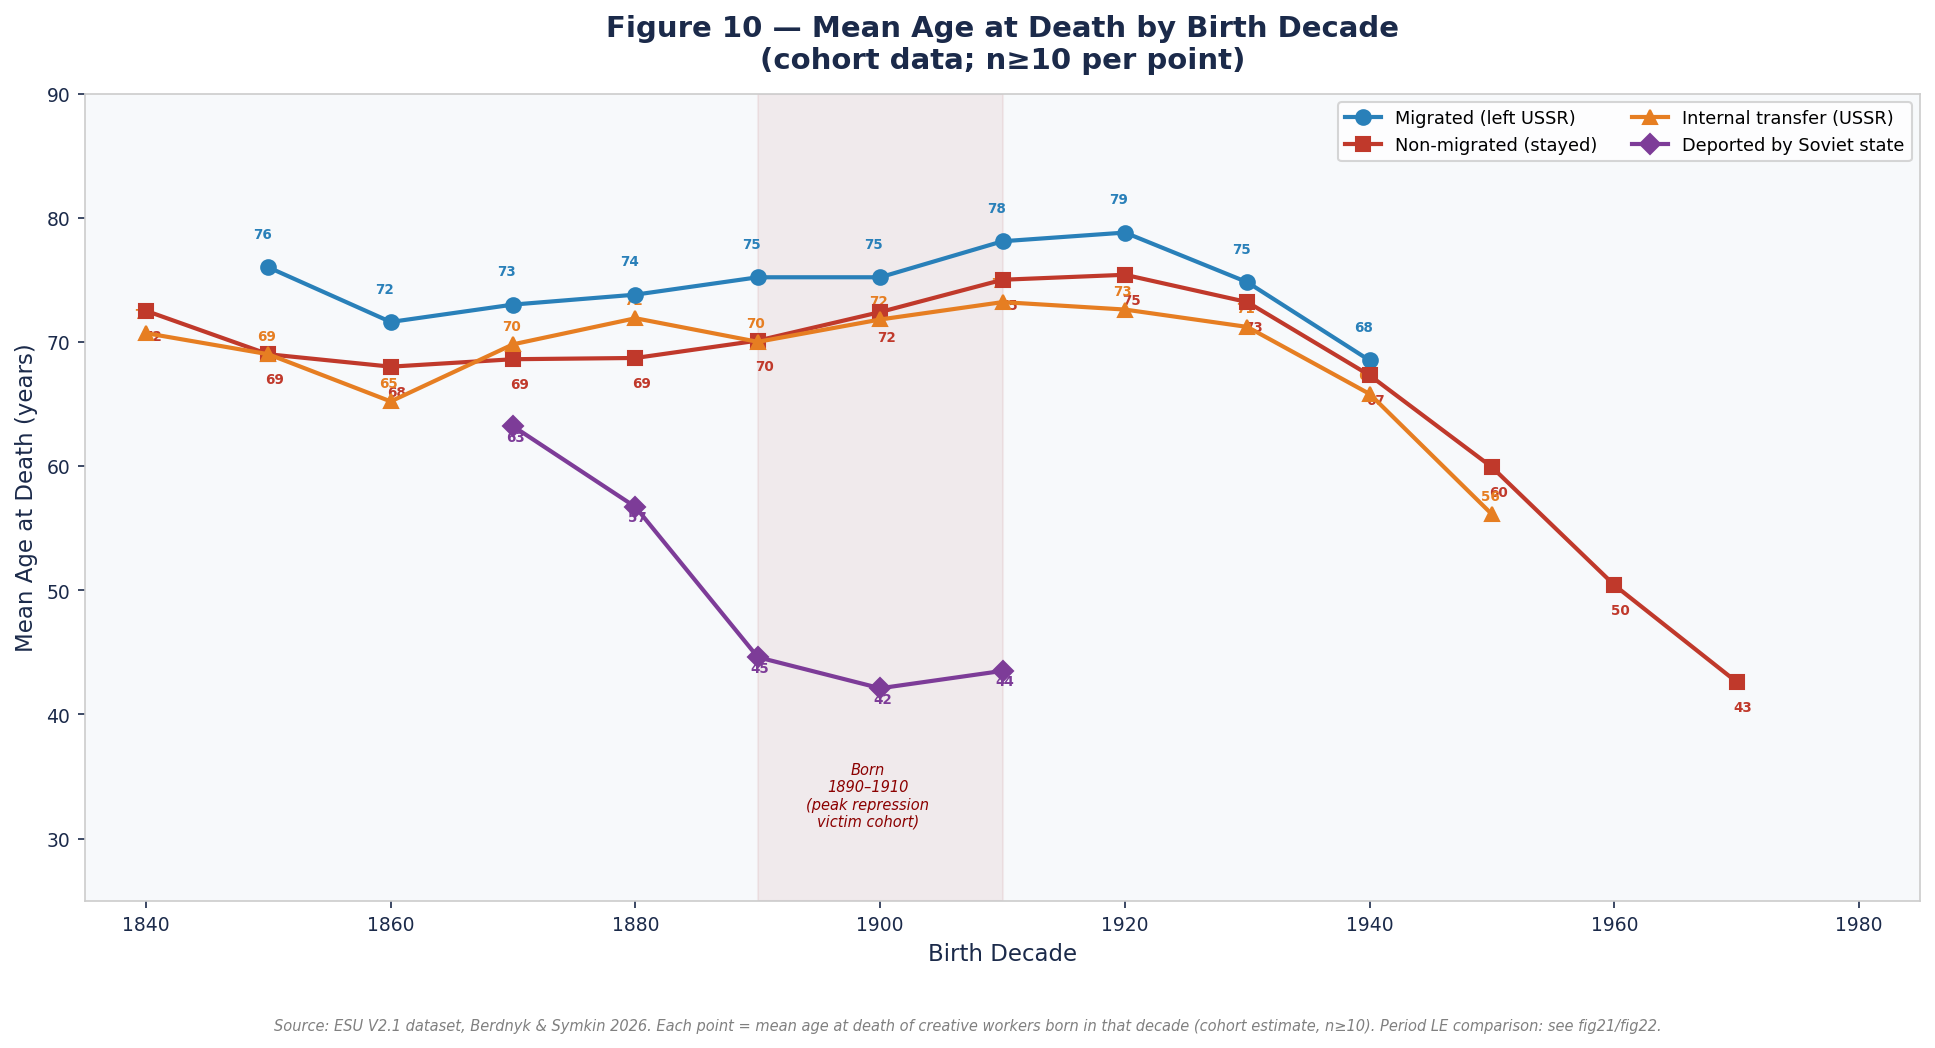
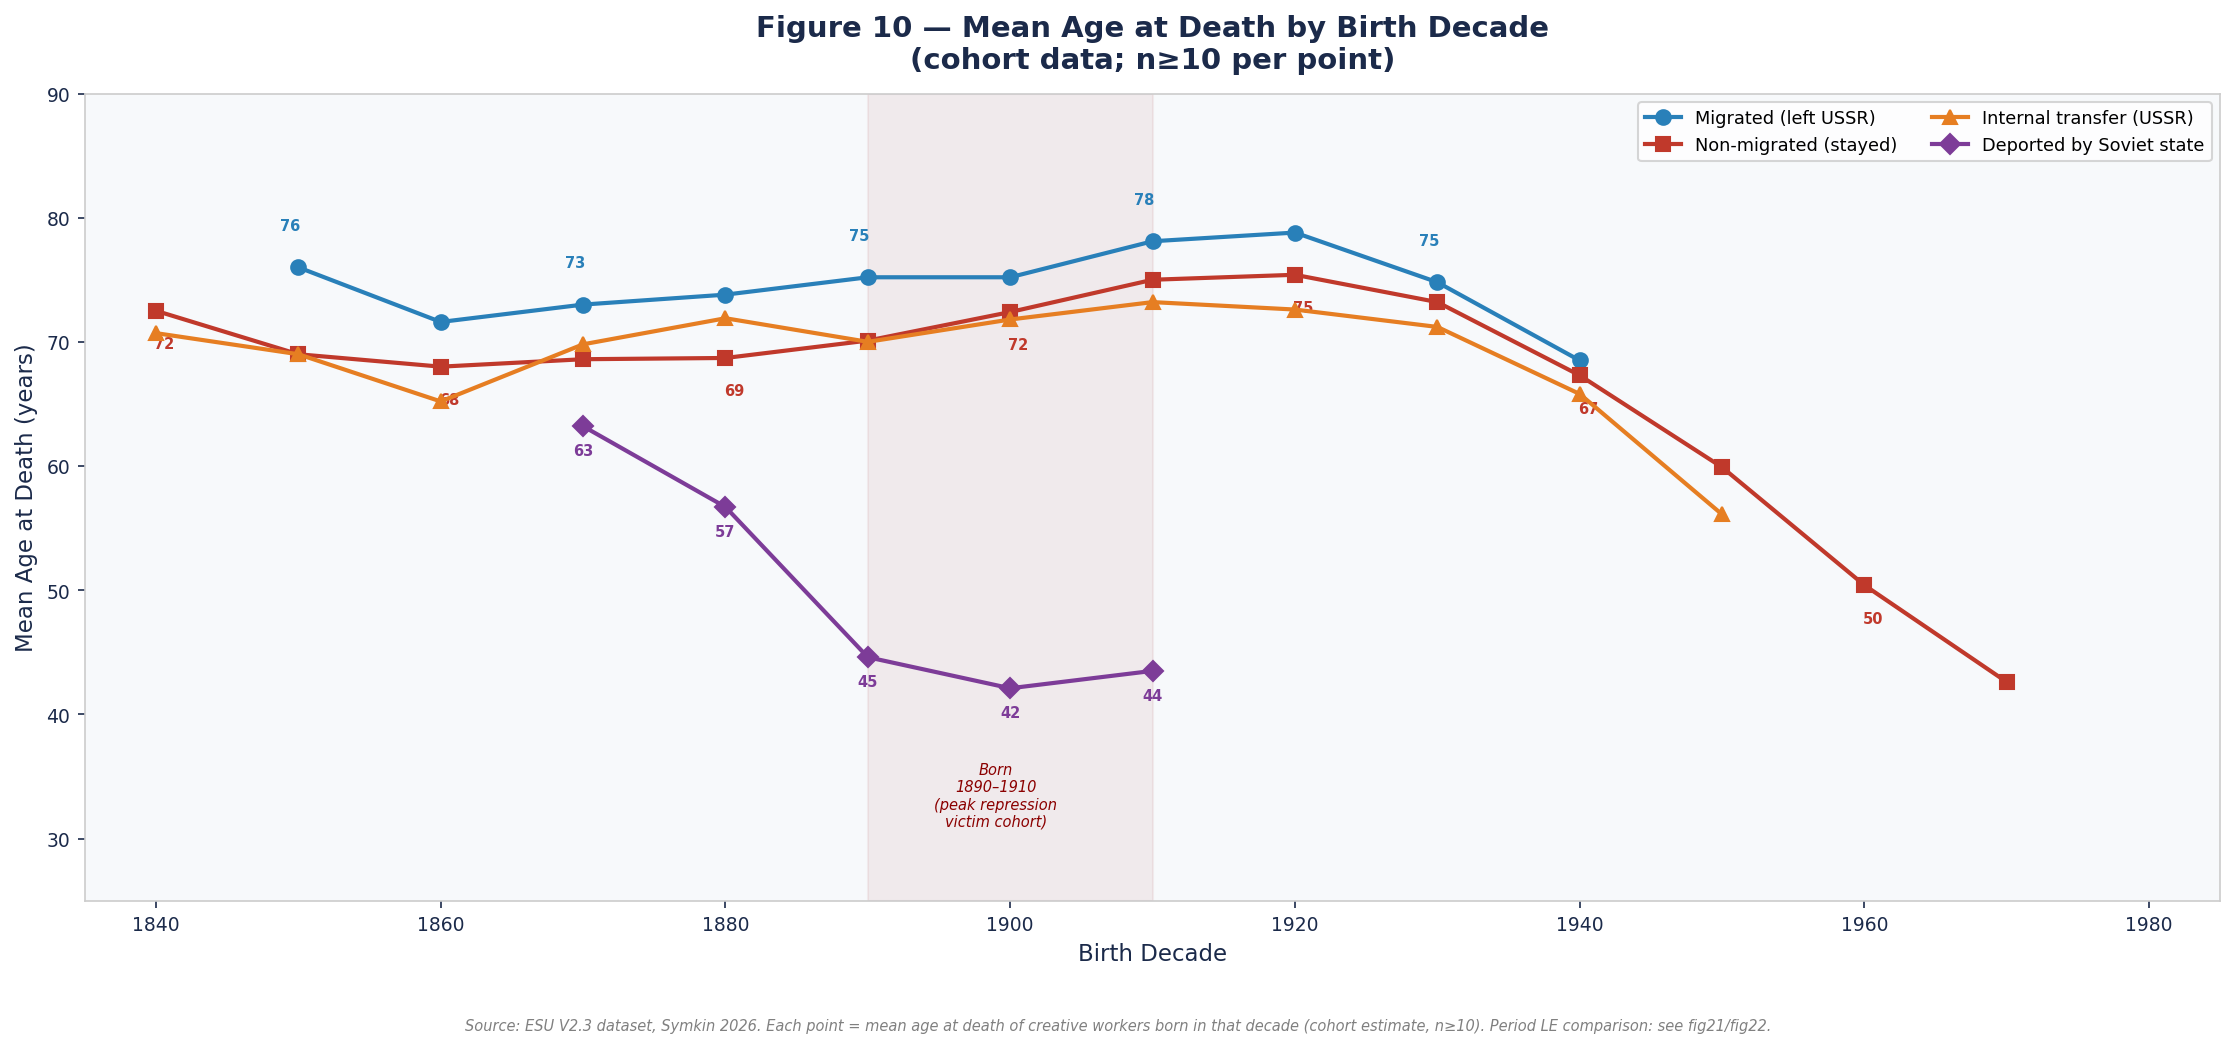
fig10: clean up label overlap — sparse labels + wider figure
- Migrated/non-migrated: label every other decade only (was every point)
- Internal transfer: no inline labels (line shape tells the story)
- Deported: all points still labelled
- Offsets increased to ±18pt and figure widened to 15" for breathing room
- Source footnote corrected: V2.1 → V2.3, Berdnyk & Symkin → Symkin

chart_docs/fig10: V2.3 cohort table with correct numbers + update history
SCIENTIFIC_METHODOLOGY.md §12.3: seven → 24 figures + viz design notes

diff --git a/ukraine_v2/generate_analysis.py b/ukraine_v2/generate_analysis.py
@@ -885,14 +885,18 @@ for dec in decades_ch:
         cohort_ns[ms].append(len(v))
     valid_decs.append(dec)
 
-fig, ax = plt.subplots(figsize=(13, 7))
+fig, ax = plt.subplots(figsize=(15, 7))
 MARKERS10 = {'migrated': 'o', 'non_migrated': 's', 'internal_transfer': '^', 'deported': 'D'}
 
-# Fixed per-group label direction + x-nudge so labels at the same decade never collide
-_LBL_DY = {'migrated': +14, 'non_migrated': -14,
-            'internal_transfer': +7, 'deported': -7}   # points
-_LBL_DX = {'migrated': -3,  'non_migrated': +3,
-            'internal_transfer': -1, 'deported': +1}   # points
+# Label strategy:
+#   - Deported: label every point (it's the key story, sits far below the others)
+#   - Migrated / Non-migrated: label every other decade only (reduces clutter on the
+#     tightly-packed upper cluster without losing the data story)
+#   - Internal transfer: no inline labels (it tracks non-migrated closely; the line
+#     shape tells the story; labelling would only add noise)
+_LABEL_EVERY = {'migrated': 2, 'non_migrated': 2, 'internal_transfer': None, 'deported': 1}
+_LBL_DY      = {'migrated': +18, 'non_migrated': -18, 'deported': -14}   # offset points
+_LBL_DX      = {'migrated':  -4, 'non_migrated':  +4,  'deported':   0}
 
 for ms in ALL_GROUPS:
     vals = cohort_means[ms]
@@ -903,10 +907,15 @@ for ms in ALL_GROUPS:
         continue
     ax.plot(xs, ys, marker=MARKERS10[ms], linestyle='-', color=COLOUR[ms],
             label=GROUP_LABELS[ms], linewidth=2, markersize=7, zorder=5)
-    for x_pt, y_pt, n_pt in zip(xs, ys, ns):
+    step = _LABEL_EVERY[ms]
+    if step is None:
+        continue
+    for j, (x_pt, y_pt, n_pt) in enumerate(zip(xs, ys, ns)):
+        if j % step != 0:
+            continue
         ax.annotate(f"{y_pt:.0f}", xy=(x_pt, y_pt),
                     xytext=(_LBL_DX[ms], _LBL_DY[ms]), textcoords='offset points',
-                    ha='center', fontsize=6.5, color=COLOUR[ms], fontweight='bold')
+                    ha='center', fontsize=7, color=COLOUR[ms], fontweight='bold')
 
 # Shade the Terror/Holodomor birth cohorts
 ax.axvspan(1890, 1910, alpha=0.06, color='#8B0000', zorder=0)
@@ -922,7 +931,7 @@ first_x = min(dec for dec in valid_decs
 ax.set_xlim(first_x - 5, 1985)
 ax.set_ylim(25, 90)
 fig.text(0.5, 0.01,
-    "Source: ESU V2.1 dataset, Berdnyk & Symkin 2026. Each point = mean age at death of creative workers "
+    "Source: ESU V2.3 dataset, Symkin 2026. Each point = mean age at death of creative workers "
     "born in that decade (cohort estimate, n≥10). Period LE comparison: see fig21/fig22.",
     ha='center', fontsize=7, color='grey', style='italic')
 plt.tight_layout(rect=[0, 0.05, 1, 1])

diff --git a/ukraine_v2/chart_docs/fig10_birth_cohort_le.md b/ukraine_v2/chart_docs/fig10_birth_cohort_le.md
@@ -7,20 +7,20 @@ Each data point = "people born in this decade, how long did they live?" This is 
 
 Minimum 10 people per data point (n≥10) — sparser points are suppressed.
 
-## Key finding (V2.3 — cohort breakdown consistent with V2.2)
-People born in the **1890s-1910s** (who came of age during the Terror) show the starkest mortality differences. The deported line for 1890s births shows mean LE of **44.4 years** (n=58) — the cohort most destroyed by the Executed Renaissance liquidations. The migrated line stays high across all birth decades.
+## Key finding (V2.3)
+People born in the **1890s–1910s** (who came of age during the Terror) show the starkest mortality differences. The deported line for 1890s births shows mean LE of **44.6 years** (n=60) — the cohort most destroyed by the Executed Renaissance liquidations. The migrated line stays high across all birth decades.
 
-**V2.2 key cohort gaps (migrated vs non-migrated):**
-| Birth decade | Migrated LE | Non-migrated LE | Deported LE |
-|-------------|------------|-----------------|------------|
-| 1880s | 73.3 | 68.9 | 56.7 |
-| 1890s | 75.2 | 70.7 | **44.4** |
-| 1900s | 75.4 | 72.4 | 41.4 |
-| 1910s | 78.1 | 75.1 | 41.1 |
-| 1920s | 78.9 | 75.1 | 47.0 |
+**V2.3 key cohort values:**
+| Birth decade | Migrated LE (n) | Non-migrated LE (n) | Deported LE (n) |
+|-------------|----------------|---------------------|----------------|
+| 1880s | 73.8 (168) | 68.7 (260) | 56.7 (27) |
+| 1890s | 75.2 (223) | 70.3 (326) | **44.6 (60)** |
+| 1900s | 75.2 (209) | 72.4 (647) | 42.1 (54) |
+| 1910s | 78.1 (207) | 75.0 (807) | 43.5 (13) |
+| 1920s | 78.8 (164) | 75.4 (1,256) | n/a (<10) |
 
 ## What to look for
-- The annotation "Born 1900-1920: peak repression victim cohort" — this birth decade produced the people who were in their 30s-40s during the Terror (prime target age for Soviet authorities)
+- The shaded region "Born 1890–1910: peak repression victim cohort" — this birth decade produced the people who were in their 30s-50s during the Terror (prime target age for Soviet authorities)
 - Where lines are absent = not enough data to plot (n<10)
 - The deported line drops off at later birth decades because very few deportees were born after 1920 and survived to provide data points
 - The migrated line trends upward for later cohorts (later-born emigrants lived longer — they left earlier in the Soviet period, or survived into better medical eras)
